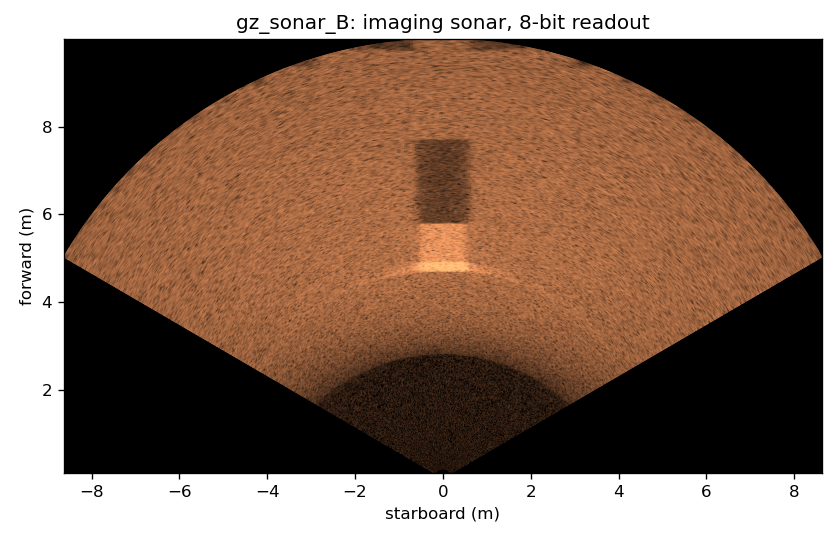
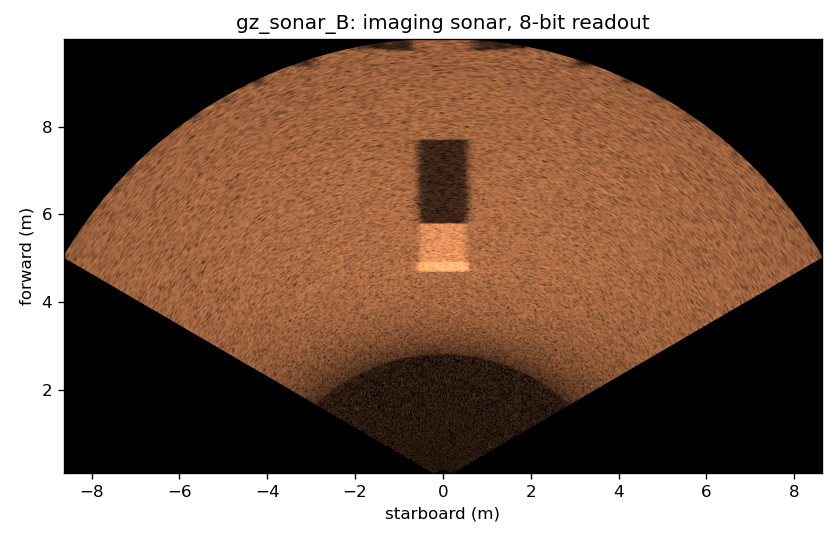
Imaging sonar: shaded sidelobes by default; sampling parameters documented
The ECHO preset's first sidelobe is now -25 dB, typical of a shaded
array, instead of the unshaded -13 dB. Sonoptix does not publish the
ECHO's shading; commercial imaging sonars shade their beams. Tracing the
glass float's missing shadow in the POSIM comparison showed why it
matters: the unshaded sidelobes filled a small target's shadow to about
10 dB below the seabed. At -25 dB the sidelobe arc stays near strong
targets and small shadows stay dark. Sidescan and profiling keep -13 dB
until Phase 3 configures them.

The design marks the new default and adds an advanced table for the
geometry sampling (rays_per_beam, elevation_rays, elevation_span) with
each one's trade-off, named in Performance as the lever for speed.

Render a ping scenes A to C are re-rendered, with an unshaded scene A
for comparison (the separate shaded image is gone, now the default), and
the first-look picture is re-shot.

diff --git a/gz_sonar/src/Config.cc b/gz_sonar/src/Config.cc
@@ -75,6 +75,10 @@ SonarConfig EchoImaging()
   // shows faintly from inside the -3 dB edge, as it does on a real sonar.
   c.elevationSpan = 3.0;
   c.beams = 256;
+  // Sidelobes of a shaded array: Sonoptix does not publish the ECHO's
+  // shading, and commercial imaging sonars shade their beams, so a strong
+  // target's sidelobe arc stays near it and small shadows stay dark.
+  c.sidelobeLevelDb = -25.0;
   c.beamWidth = 1.5 * kDeg;
   c.rangeMin = 0.2;
   c.rangeMax = 30.0;

diff --git a/docs/design/sonar.md b/docs/design/sonar.md
@@ -78,7 +78,6 @@ For each beam and range sample the echo power from every surface patch the beam 
 This section describes, at a high level, the model component by component, with references for the details; places it among the alternative approaches; justifies why it suits the driving use cases; and then describes how the one model is adapted to the different sonar types: the multibeam sonars (imaging and profiling) and the sidescan.
 
 ### The model and its components
-
 All three sonars use this one engine, also called an incoherent intensity model: incoherent because it adds echo powers and never phases. It treats every surface the sonar sees as a patch made of many small, independent scatterers. For each ping it adds up the echo power that every patch inside each beam sends back, placed at the time the echo takes to return, with the sonar equation: the source, the loss to spreading and absorption on the way out and back, the surface's backscatter, and the beam pattern. The random interference between scatterers is not computed wave by wave; it is applied statistically, as speckle. The result is the echo intensity in every beam and range sample, which a readout then turns into what the real device delivers. Coiras and Groen, ["Simulation and 3D reconstruction of side-looking sonar images"](https://doi.org/10.5772/39406) (in *Advances in Sonar Technology*, 2009, open access), derive this model in "Sonar simulation": from the wave equation and point scattering down to the Lambertian, incoherent form used here. Sena and Santos Neto, ["SideScanSim: an open-source side-scan sonar simulator"](https://sol.sbc.org.br/index.php/erbase/article/download/46318/46077/) (2026, with an [open implementation](https://github.com/andreluissena/SideScanSim)), write out the same ingredients in a few lines each: the sonar equation with spreading and Francois–Garrison absorption, Lambert's law for the seabed, time-varied gain, and speckle as an exponentially distributed intensity. Short introduction to the ["SONAR equation"](https://dosits.org/science/advanced-topics/sonar-equation/).
 
 The engine follows the terms of the active sonar equation, received level = source level − 2 TL + BS + 10 log A, weighted by the beam pattern, in six components:
@@ -261,8 +260,7 @@ Parameters shared by the three types. The defaults come from each type's exempla
 | `vertical_fov` | Thickness of the fan about the sensor's y axis, rad | 0.349 (20°) | 0.070 (4°) | 0.873 (50°) | 1° to 50° |
 | `beams` | Beams across the fan | 256 | 20 (most soundings per ping) | 1 | 1 to about 1000 |
 | `beam_width` | Two-way −3 dB width of one beam across the fan, rad | 0.026 (1.5°) | 0.017 (1°, chosen) | the horizontal FOV | 0.25° to 3° |
-| `elevation_span` | How far the rays reach out of the fan, in half-widths of the vertical beam; wider shows more of the faint seabed below the beam, at more cost | 3 (chosen) | 2 (chosen) | 2 (chosen) | 2 to 3 |
-| `sidelobe_level` | First sidelobe relative to the main lobe, dB | −13 (chosen) | −13 (chosen) | −13 (chosen) | −13 (unshaded array) to −40 (heavily shaded) |
+| `sidelobe_level` | First sidelobe relative to the main lobe, dB | −25 (chosen, typical of a shaded array) | −13 (chosen) | −13 (chosen) | −13 (unshaded array) to −40 (heavily shaded) |
 | `range/min`, `range/max` (or `range_min`, `range_max`) | Range window, m | 0.2, 30 | 2.5, 50 | 1 (chosen), 50 | min 0.1 to 5; max 5 to 300 |
 | `samples` | Range samples per beam per ping | 1024 (chosen) | 400 | 600 | 200 to 4000 |
 | `pulse_length` | Transmit pulse, s; sets range resolution cτ/2 | 1e-5 (8 mm) | chosen to give one range step | 1e-4 (chosen) | 10 to 200 µs |
@@ -284,6 +282,14 @@ Readout parameters that only one type uses:
 | Profiling | `range_noise` | Standard deviation of range at high signal-to-noise ratio, m; grows as the ratio falls | half a range step (chosen; the Surveyor's precision is not published) | 0.005 to 0.1 |
 | Profiling | `angle_noise` | Standard deviation of a sounding's angle, rad | 0.009 (0.5°, chosen) | 0.1° to 2° |
 | Profiling | `water_column` | Also publish the thin-fan intensity before detection | false | true or false |
+
+Advanced: geometry sampling. These set how finely the engine samples the scene, not anything about the sonar, and the defaults are chosen for accuracy. Lowering them is the way to buy speed, at the cost of fidelity; see [Performance](#performance).
+
+| Parameter | Meaning | Imaging (ECHO) | Profiling (Surveyor 240-16) | Sidescan (Omniscan 450 SS) | Trade-off |
+|---|---|---|---|---|---|
+| `rays_per_beam` | Rays across one beam width | 4 | 4 | 8 | The largest lever: the cameras' width and the work per ping scale with it. Below 4, small targets and edges fall between rays and shadows lose detail; 2 is the practical minimum |
+| `elevation_rays` | Rays across the vertical field of view, counted at a span of 2 | 64 | 16 | 400 | Fewer rays leave gaps in range on surfaces seen at grazing angles, which the footprints from neighboring rays only partly fill |
+| `elevation_span` | How far the rays reach out of the fan, in half-widths of the vertical beam; the ray count scales with it | 3 | 2 | 2 | Wider shows more of the faint seabed below the beam; 3 costs about 50 % more rays than 2 |
 
 The imaging sonar's readout is fixed: 8-bit beam by sample, as the ECHO delivers it.
 
@@ -352,7 +358,7 @@ In every run the sonar kept its configured rate in sim time, with no ping missin
 - The world slows by roughly the ping rate times the render time: at 10 Hz, 10 × 15 ms is 15 % of each second on the rendering thread, and the real time factor drops from 0.96 to 0.81.
 - The worker takes about 47 ms a ping, so it keeps up to about 20 Hz; beyond that the queue fills and the rendering thread waits for it too.
 
-In this small scene llvmpipe is close to the GPU, because the render is dominated by fixed per-camera costs, not triangles. On llvmpipe the render cost grows with the triangles in view: in Phase 1's 2.1-million-triangle scene the sampler managed 4 to 8 Hz without a GPU. 10 Hz is a realistic imaging rate for a sonar at 15 m and is the default; pick a lower rate for large scenes without a GPU.
+To buy speed, lower the sampling, `rays_per_beam` first (see the advanced parameters under [SDF](#sdf)), at a cost in fidelity that should be checked on the scene at hand. In this small scene llvmpipe is close to the GPU, because the render is dominated by fixed per-camera costs, not triangles. On llvmpipe the render cost grows with the triangles in view: in Phase 1's 2.1-million-triangle scene the sampler managed 4 to 8 Hz without a GPU. 10 Hz is a realistic imaging rate for a sonar at 15 m and is the default; pick a lower rate for large scenes without a GPU.
 
 To force llvmpipe in drydock, `gz sim` needs `__GLX_VENDOR_LIBRARY_NAME=mesa LIBGL_ALWAYS_SOFTWARE=1` (it renders through GLX on the forwarded display); the EGL settings alone leave it on the GPU. Ogre's log, `~/.gz/rendering/ogre2.log`, names the renderer it used.
 
